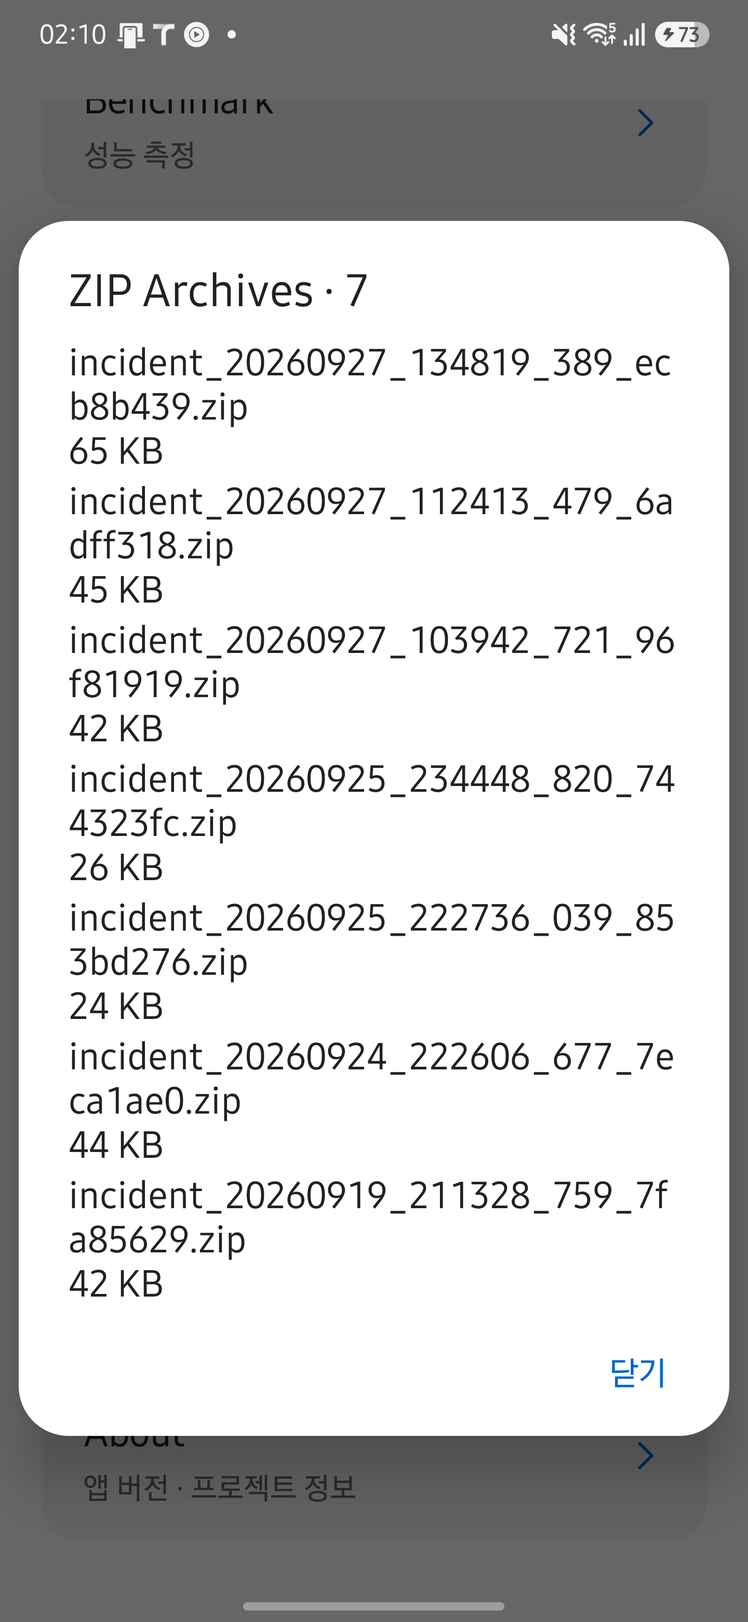
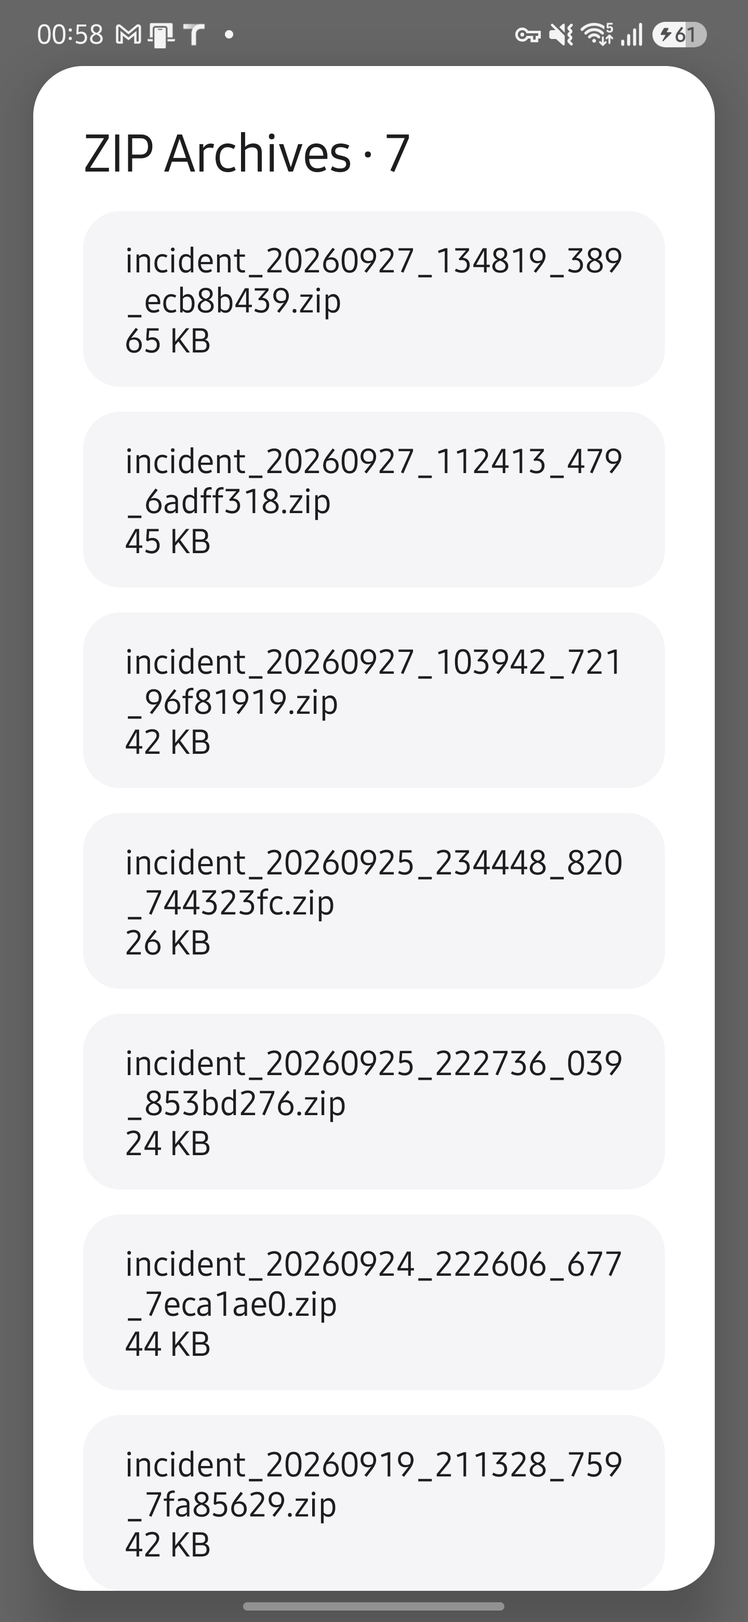
Fix thumbnail clipping and refresh device screenshots

diff --git a/docs/architecture.html b/docs/architecture.html
@@ -113,7 +113,7 @@
 <summary>근거와 검토 정보</summary><ul>
 <li>근거 파일: <code>app/src/main/java/dev/halcamera/cli/CommandCoordinator.kt</code>, <code>tools/halcam/halcam/cli.py</code>, <code>app/src/main/java/dev/halcamera/MainActivity.kt</code>, <code>app/src/main/java/dev/halcamera/WorkbenchActivity.kt</code>, <code>app/src/main/java/dev/halcamera/camera/CameraEngine.kt</code>, <code>app/src/main/java/dev/halcamera/telemetry/Telemetry.kt</code>, <code>app/src/main/java/dev/halcamera/telemetry/FlightRecorder.kt</code>, <code>app/src/main/java/dev/halcamera/benchmark/domain/BenchmarkRunner.kt</code>, <code>app/src/main/java/dev/halcamera/benchmark/domain/RunAssembler.kt</code>, <code>app/src/main/java/dev/halcamera/benchmark/domain/ScoreComposer.kt</code>, <code>app/src/main/java/dev/halcamera/benchmark/BenchmarkActivity.kt</code>, <code>app/src/main/java/dev/halcamera/benchmark/HistoryActivity.kt</code>, <code>app/src/main/java/dev/halcamera/benchmark/domain/RegressionDetector.kt</code></li>
 <li>근거 수준: 코드 확인</li>
-<li>검토 2026-09-29 @ <code>2347e04</code> · Codex-code-review</li>
+<li>검토 2026-09-29 @ <code>0bb92aa</code> · Codex-code-review</li>
 </ul>
 </details><!-- omm:end id=overview --><h2 id="전체-구조도">전체 구조도</h2>
 <p>그림을 클릭하면 확대 화면이 열립니다. 키보드에서는 Tab으로 그림을 선택한 뒤 Enter 또는 Space를 누르세요.</p>
@@ -184,7 +184,7 @@
 <summary>근거와 검토 정보</summary><ul>
 <li>근거 파일: <code>app/src/main/java/dev/halcamera/cli/CommandCoordinator.kt</code>, <code>app/src/main/java/dev/halcamera/cli/LiveController.kt</code>, <code>app/src/main/java/dev/halcamera/cli/BenchmarkController.kt</code>, <code>app/src/main/java/dev/halcamera/camera/CameraEngine.kt</code>, <code>app/src/main/java/dev/halcamera/camera/BenchmarkRecorder.kt</code>, <code>app/src/main/java/dev/halcamera/benchmark/platform/EnvironmentProbe.kt</code>, <code>app/src/main/java/dev/halcamera/benchmark/BenchmarkActivity.kt</code>, <code>app/src/main/java/dev/halcamera/benchmark/HistoryActivity.kt</code>, <code>app/src/main/java/dev/halcamera/benchmark/domain/RunIndex.kt</code>, <code>app/src/main/java/dev/halcamera/benchmark/domain/BenchmarkCsv.kt</code>, <code>app/src/main/java/dev/halcamera/benchmark/domain/ScoreComposer.kt</code>, <code>app/src/main/java/dev/halcamera/benchmark/platform/BenchmarkReport.kt</code>, <code>app/src/main/java/dev/halcamera/benchmark/domain/BenchmarkReportCodec.kt</code>, <code>app/src/main/java/dev/halcamera/telemetry/FlightRecorder.kt</code>, <code>app/src/main/java/dev/halcamera/MainActivity.kt</code>, <code>app/src/main/java/dev/halcamera/camera/RecentMediaThumbnail.kt</code>, <code>app/src/main/java/dev/halcamera/ui/RecentMediaButton.kt</code>, <code>app/src/main/java/dev/halcamera/ui/Look.kt</code>, <code>app/src/main/java/dev/halcamera/cts/recording/BasicRecordingRules.kt</code>, <code>app/src/main/java/dev/halcamera/cts/CtsEntryActivity.kt</code>, <code>app/src/main/java/dev/halcamera/cts/vendored/VendoredCaseActivity.kt</code>, <code>app/src/main/java/dev/halcamera/cts/vendored/VendoredCtsListActivity.kt</code>, <code>app/src/main/java/dev/halcamera/cts/CtsCaseActivity.kt</code>, <code>app/src/main/java/dev/halcamera/cts/CtsCaseListActivity.kt</code>, <code>app/src/main/java/dev/halcamera/cts/suite/CtsChecklistActivity.kt</code>, <code>app/src/main/java/dev/halcamera/cts/suite/CtsSuiteRunActivity.kt</code>, <code>app/src/main/java/dev/halcamera/cts/suite/SuitePlan.kt</code>, <code>app/src/main/java/dev/halcamera/cts/suite/SuiteReport.kt</code>, <code>app/src/main/java/dev/halcamera/cts/CtsCatalog.kt</code>, <code>app/src/main/java/dev/halcamera/cts/CtsRunner.kt</code>, <code>app/src/main/java/dev/halcamera/cts/CameraCaseRunner.kt</code>, <code>app/src/main/java/dev/halcamera/cts/Camera2Ops.kt</code>, <code>app/src/main/java/dev/halcamera/cts/onoff/FastOnOffRules.kt</code>, <code>app/src/main/java/dev/halcamera/cts/switching/SwitchingRules.kt</code>, <code>app/src/main/java/dev/halcamera/cts/sizes/AllSizeOnOffRules.kt</code>, <code>app/src/main/java/dev/halcamera/cts/combination/StillPreviewCombinationRules.kt</code>, <code>app/src/main/java/dev/halcamera/cts/snapshot/VideoSnapshotRules.kt</code>, <code>app/src/main/java/dev/halcamera/CameraProbeActivity.kt</code>, <code>app/src/main/java/dev/halcamera/camera/CameraProbe.kt</code>, <code>app/src/main/java/dev/halcamera/camera/CameraProbeReader.kt</code></li>
 <li>근거 수준: 코드 확인</li>
-<li>검토 2026-09-29 @ <code>2347e04</code> · Codex-code-review</li>
+<li>검토 2026-09-29 @ <code>0bb92aa</code> · Codex-code-review</li>
 </ul>
 </details><!-- omm:end id=module-roles --><h2 id="주요-실행-흐름">주요 실행 흐름</h2>
 <!-- omm:begin id=runtime-flow --><p><strong>실행 실패는 러너 결과에서, 측정값의 차이는 이벤트와 계산 규칙에서 확인하세요.</strong> 벤치마크의 입력은 카메라 콜백 이벤트와 러너가 기록한 실행 시각입니다.</p>
@@ -221,7 +221,7 @@
 <summary>근거와 검토 정보</summary><ul>
 <li>근거 파일: <code>app/src/main/java/dev/halcamera/cli/CliProvider.kt</code>, <code>app/src/main/java/dev/halcamera/cli/CommandCoordinator.kt</code>, <code>tools/halcam/halcam/cli.py</code>, <code>tools/halcam/halcam/download.py</code>, <code>app/src/main/java/dev/halcamera/MainActivity.kt</code>, <code>app/src/main/java/dev/halcamera/GalleryActivity.kt</code>, <code>app/src/main/java/dev/halcamera/camera/MediaLibrary.kt</code>, <code>app/src/main/java/dev/halcamera/camera/RecentMediaThumbnail.kt</code>, <code>app/src/main/java/dev/halcamera/telemetry/Telemetry.kt</code>, <code>app/src/main/java/dev/halcamera/telemetry/FlightRecorder.kt</code>, <code>app/src/main/java/dev/halcamera/metrics/MetricExtractor.kt</code>, <code>app/src/main/java/dev/halcamera/benchmark/domain/BenchmarkRunner.kt</code>, <code>app/src/main/java/dev/halcamera/benchmark/domain/RunAssembler.kt</code>, <code>app/src/main/java/dev/halcamera/benchmark/domain/RunValidity.kt</code>, <code>app/src/main/java/dev/halcamera/benchmark/domain/RunRetention.kt</code>, <code>app/src/main/java/dev/halcamera/benchmark/platform/BenchmarkReport.kt</code>, <code>app/src/main/java/dev/halcamera/benchmark/domain/BenchmarkReportCodec.kt</code>, <code>app/src/main/java/dev/halcamera/benchmark/domain/ScoreComposer.kt</code>, <code>app/src/main/java/dev/halcamera/benchmark/domain/BenchmarkEvaluator.kt</code>, <code>app/src/main/java/dev/halcamera/benchmark/BenchmarkActivity.kt</code>, <code>app/src/main/java/dev/halcamera/benchmark/platform/LaunchDiagnostics.kt</code>, <code>app/src/main/java/dev/halcamera/benchmark/domain/RegressionDetector.kt</code></li>
 <li>근거 수준: 코드 확인</li>
-<li>검토 2026-09-29 @ <code>2347e04</code> · Codex-code-review</li>
+<li>검토 2026-09-29 @ <code>0bb92aa</code> · Codex-code-review</li>
 </ul>
 </details><!-- omm:end id=runtime-flow --><h3 id="이벤트와-결과가-전달되는-경로">이벤트와 결과가 전달되는 경로</h3>
 <!-- omm:begin id=runtime-diagram --><pre><code class="language-mermaid">graph TB
@@ -367,7 +367,7 @@
 <summary>근거와 검토 정보</summary><ul>
 <li>근거 파일: <code>app/src/main/java/dev/halcamera/cli/CliProvider.kt</code>, <code>app/src/main/java/dev/halcamera/cli/CommandCoordinator.kt</code>, <code>app/src/main/java/dev/halcamera/cli/CommandStore.kt</code>, <code>app/src/main/java/dev/halcamera/camera/CameraEngine.kt</code>, <code>app/src/main/java/dev/halcamera/camera/CameraEndpointResolver.kt</code>, <code>app/src/main/java/dev/halcamera/telemetry/IncidentExporter.kt</code>, <code>app/src/main/java/dev/halcamera/benchmark/domain/BenchmarkRunner.kt</code>, <code>app/src/main/java/dev/halcamera/benchmark/domain/RunValidity.kt</code>, <code>app/src/main/java/dev/halcamera/benchmark/domain/ScoreComposer.kt</code>, <code>app/src/main/java/dev/halcamera/benchmark/domain/RegressionRules.kt</code>, <code>app/src/main/java/dev/halcamera/benchmark/platform/BenchmarkReport.kt</code>, <code>app/src/main/java/dev/halcamera/benchmark/domain/BenchmarkReportCodec.kt</code>, <code>app/src/main/java/dev/halcamera/benchmark/platform/BenchmarkStore.kt</code>, <code>app/src/main/java/dev/halcamera/benchmark/domain/BenchmarkIndex.kt</code>, <code>app/src/main/java/dev/halcamera/benchmark/domain/AtomicFiles.kt</code></li>
 <li>근거 수준: 코드 확인</li>
-<li>검토 2026-09-29 @ <code>2347e04</code> · Codex-code-review</li>
+<li>검토 2026-09-29 @ <code>0bb92aa</code> · Codex-code-review</li>
 </ul>
 </details><!-- omm:end id=constraints --><h2 id="변경-후-검증">변경 후 검증</h2>
 <p>Android 의존성이 없는 러너와 평가 로직은 JVM 단위 테스트로 확인할 수 있습니다. 저장소 루트에서 실행하세요.</p>
@@ -406,17 +406,17 @@
 <tbody><tr>
 <td>구조 원본 <code>data-flow</code></td>
 <td>최신</td>
-<td>검토 2026-09-29 @ <code>2347e04</code> · Codex-code-review</td>
+<td>검토 2026-09-29 @ <code>0bb92aa</code> · Codex-code-review</td>
 </tr>
 <tr>
 <td>구조 원본 <code>overall-architecture</code></td>
 <td>최신</td>
-<td>검토 2026-09-29 @ <code>2347e04</code> · Codex-code-review</td>
+<td>검토 2026-09-29 @ <code>0bb92aa</code> · Codex-code-review</td>
 </tr>
 <tr>
 <td>구조 원본 <code>state-transitions</code></td>
 <td>최신</td>
-<td>검토 2026-09-29 @ <code>2347e04</code> · Codex-code-review</td>
+<td>검토 2026-09-29 @ <code>0bb92aa</code> · Codex-code-review</td>
 </tr>
 <tr>
 <td>구조 원본 <code>ui-camera-label</code></td>
@@ -426,7 +426,7 @@
 <tr>
 <td>구조 원본 <code>ui-tool-handoff</code></td>
 <td>최신</td>
-<td>검토 2026-09-29 @ <code>2347e04</code> · Codex-code-review</td>
+<td>검토 2026-09-29 @ <code>0bb92aa</code> · Codex-code-review</td>
 </tr>
 <tr>
 <td>구조 원본 <code>ui-zoom</code></td>
@@ -436,22 +436,22 @@
 <tr>
 <td>원고 <code>overview</code></td>
 <td>최신</td>
-<td>검토 2026-09-29 @ <code>2347e04</code> · Codex-code-review</td>
+<td>검토 2026-09-29 @ <code>0bb92aa</code> · Codex-code-review</td>
 </tr>
 <tr>
 <td>원고 <code>module-roles</code></td>
 <td>최신</td>
-<td>검토 2026-09-29 @ <code>2347e04</code> · Codex-code-review</td>
+<td>검토 2026-09-29 @ <code>0bb92aa</code> · Codex-code-review</td>
 </tr>
 <tr>
 <td>원고 <code>runtime-flow</code></td>
 <td>최신</td>
-<td>검토 2026-09-29 @ <code>2347e04</code> · Codex-code-review</td>
+<td>검토 2026-09-29 @ <code>0bb92aa</code> · Codex-code-review</td>
 </tr>
 <tr>
 <td>원고 <code>constraints</code></td>
 <td>최신</td>
-<td>검토 2026-09-29 @ <code>2347e04</code> · Codex-code-review</td>
+<td>검토 2026-09-29 @ <code>0bb92aa</code> · Codex-code-review</td>
 </tr>
 </tbody></table>
 <!-- omm:end id=status --><p>표의 <code>최신</code>은 기록된 근거와 원고가 검토 이후 바뀌지 않았다는 뜻입니다. 모든 기기에서 동작을 검증했다는 뜻은 아닙니다.</p>

diff --git a/docs/engine.html b/docs/engine.html
@@ -140,7 +140,7 @@
 <summary>근거와 검토 정보</summary><ul>
 <li>근거 파일: <code>app/src/main/java/dev/halcamera/camera/CameraEngine.kt</code>, <code>app/src/main/java/dev/halcamera/camera/Camera2Engine.kt</code>, <code>app/src/main/java/dev/halcamera/camera/CameraXEngine.kt</code>, <code>app/src/main/java/dev/halcamera/MainActivity.kt</code>, <code>app/src/main/java/dev/halcamera/ui/LiveControlBar.kt</code>, <code>app/src/main/java/dev/halcamera/ui/FocusRing.kt</code>, <code>app/src/main/java/dev/halcamera/camera/LiveControls.kt</code>, <code>app/src/main/java/dev/halcamera/benchmark/BenchmarkActivity.kt</code>, <code>app/src/main/java/dev/halcamera/benchmark/domain/StartCardPresenter.kt</code>, <code>app/src/main/java/dev/halcamera/cli/LiveController.kt</code>, <code>app/src/main/java/dev/halcamera/telemetry/Telemetry.kt</code></li>
 <li>근거 수준: 코드 확인</li>
-<li>검토 2026-09-29 @ <code>2347e04</code> · Codex-code-review</li>
+<li>검토 2026-09-29 @ <code>0bb92aa</code> · Codex-code-review</li>
 </ul>
 </details><!-- omm:end id=contract --><h2 id="camera2-엔진">Camera2 엔진</h2>
 <!-- omm:begin id=camera2 --><p><strong>Camera2Engine은 앱에서 CaptureRequest를 직접 구성합니다.</strong> <code>request_observed</code>에 기록한 키를 HAL 로그와 대조할 수 있습니다. 엔진 자체는 세션, 요청 구성, 줌, Live 제어를 담당하고, 사진은 <code>Camera2StillCapture</code>, Live 녹화는 <code>Camera2LiveRecorder</code>, 터치 측광은 <code>Camera2TouchFocus</code>, 벤치마크 녹화는 <code>BenchmarkRecorder</code>가 맡습니다. 카메라 요청과 capture 콜백은 엔진이 만든 카메라 스레드 하나에서 처리하고, 버퍼 relay와 파일 저장은 각자의 스레드에서 처리합니다.</p>
@@ -238,7 +238,7 @@
 <summary>근거와 검토 정보</summary><ul>
 <li>근거 파일: <code>app/src/main/java/dev/halcamera/camera/Camera2Engine.kt</code>, <code>app/src/main/java/dev/halcamera/camera/LiveStreamSettings.kt</code>, <code>app/src/main/java/dev/halcamera/camera/LiveStreamCapabilities.kt</code>, <code>app/src/main/java/dev/halcamera/camera/LiveSessionCheck.kt</code>, <code>app/src/main/java/dev/halcamera/camera/Camera2StillCapture.kt</code>, <code>app/src/main/java/dev/halcamera/camera/Camera2LiveRecorder.kt</code>, <code>app/src/main/java/dev/halcamera/camera/BenchmarkRecorder.kt</code>, <code>app/src/main/java/dev/halcamera/camera/PreviewBufferRelay.kt</code>, <code>app/src/main/java/dev/halcamera/camera/RecordingBufferRelay.kt</code>, <code>app/src/main/java/dev/halcamera/camera/StreamConfiguration.kt</code>, <code>app/src/main/java/dev/halcamera/camera/StillPair.kt</code>, <code>app/src/main/java/dev/halcamera/camera/YuvPacking.kt</code>, <code>app/src/main/java/dev/halcamera/camera/StillEncoding.kt</code>, <code>app/src/main/java/dev/halcamera/camera/MediaLibrary.kt</code>, <code>app/src/main/java/dev/halcamera/camera/LiveControls.kt</code>, <code>app/src/main/java/dev/halcamera/camera/LiveControlRequests.kt</code>, <code>app/src/main/java/dev/halcamera/camera/TouchMeter.kt</code>, <code>app/src/main/java/dev/halcamera/camera/TouchMeterRequests.kt</code></li>
 <li>근거 수준: 코드 확인</li>
-<li>검토 2026-09-29 @ <code>2347e04</code> · Codex-code-review</li>
+<li>검토 2026-09-29 @ <code>0bb92aa</code> · Codex-code-review</li>
 </ul>
 </details><!-- omm:end id=camera2 --><h2 id="camerax-엔진">CameraX 엔진</h2>
 <!-- omm:begin id=camerax --><p><strong>CameraXEngine은 CameraX use case로 Live 촬영과 제어를 제공하지만, 요청 키 일부는 CameraX가 정합니다.</strong> Live 스트림 설정에서 Preview·YUV·JPEG 크기와 출력 활성화를 선택할 수 있습니다. 앱이 CameraX 1.6.2에 직접 넣는 Camera2 키는 AE 잠금(<code>CONTROL_AE_LOCK</code>)과 AF 잠금 해제용 cancel trigger뿐입니다. 엔진 자체는 use case bind, 줌, 수명 주기를 담당하고, 사진은 <code>CameraXStillCapture</code>, 녹화는 <code>CameraXLiveRecorder</code>, Live 제어와 터치 측광은 <code>CameraXControls</code>가 맡습니다.</p>
@@ -308,7 +308,7 @@
 <summary>근거와 검토 정보</summary><ul>
 <li>근거 파일: <code>app/src/main/java/dev/halcamera/camera/CameraXEngine.kt</code>, <code>app/src/main/java/dev/halcamera/camera/CameraXStillCapture.kt</code>, <code>app/src/main/java/dev/halcamera/camera/CameraXLiveRecorder.kt</code>, <code>app/src/main/java/dev/halcamera/camera/CameraXControls.kt</code>, <code>app/src/main/java/dev/halcamera/camera/StillEncoding.kt</code>, <code>app/src/main/java/dev/halcamera/camera/YuvPacking.kt</code>, <code>app/src/main/java/dev/halcamera/camera/MediaLibrary.kt</code>, <code>app/src/main/java/dev/halcamera/camera/StreamConfiguration.kt</code>, <code>app/src/main/java/dev/halcamera/camera/LiveControls.kt</code>, <code>app/src/main/java/dev/halcamera/camera/TouchMeter.kt</code>, <code>app/build.gradle.kts</code></li>
 <li>근거 수준: 코드 확인</li>
-<li>검토 2026-09-29 @ <code>2347e04</code> · Codex-code-review</li>
+<li>검토 2026-09-29 @ <code>0bb92aa</code> · Codex-code-review</li>
 </ul>
 </details><!-- omm:end id=camerax --><h2 id="두-엔진의-차이">두 엔진의 차이</h2>
 <!-- omm:begin id=comparison --><p><strong>두 엔진의 측정값을 비교하기 전에 아래 차이가 결과에 영향을 주는지 확인하세요.</strong> 같은 조작이라도 엔진이 카메라에 보내는 요청과 앱이 기록하는 시각이 다를 수 있습니다.</p>
@@ -375,7 +375,7 @@
 <summary>근거와 검토 정보</summary><ul>
 <li>근거 파일: <code>app/src/main/java/dev/halcamera/camera/Camera2Engine.kt</code>, <code>app/src/main/java/dev/halcamera/camera/Camera2StillCapture.kt</code>, <code>app/src/main/java/dev/halcamera/camera/Camera2LiveRecorder.kt</code>, <code>app/src/main/java/dev/halcamera/camera/TouchMeterRequests.kt</code>, <code>app/src/main/java/dev/halcamera/camera/CameraXEngine.kt</code>, <code>app/src/main/java/dev/halcamera/camera/CameraXStillCapture.kt</code>, <code>app/src/main/java/dev/halcamera/camera/CameraXLiveRecorder.kt</code>, <code>app/src/main/java/dev/halcamera/camera/CameraXControls.kt</code>, <code>app/src/main/java/dev/halcamera/MainActivity.kt</code></li>
 <li>근거 수준: 코드 확인</li>
-<li>검토 2026-09-29 @ <code>2347e04</code> · Codex-code-review</li>
+<li>검토 2026-09-29 @ <code>0bb92aa</code> · Codex-code-review</li>
 </ul>
 </details><!-- omm:end id=comparison --><h3 id="기기에서-관찰한-차이">기기에서 관찰한 차이</h3>
 <p>Galaxy S25+에서 확인한 CameraX 관찰 결과와 검증 조건은 <a href="evidence.html#camerax-기기-관찰">Evidence</a>에 있습니다.</p>
@@ -395,27 +395,27 @@
 <tbody><tr>
 <td>구조 원본 <code>overall-architecture</code></td>
 <td>최신</td>
-<td>검토 2026-09-29 @ <code>2347e04</code> · Codex-code-review</td>
+<td>검토 2026-09-29 @ <code>0bb92aa</code> · Codex-code-review</td>
 </tr>
 <tr>
 <td>원고 <code>contract</code></td>
 <td>최신</td>
-<td>검토 2026-09-29 @ <code>2347e04</code> · Codex-code-review</td>
+<td>검토 2026-09-29 @ <code>0bb92aa</code> · Codex-code-review</td>
 </tr>
 <tr>
 <td>원고 <code>camera2</code></td>
 <td>최신</td>
-<td>검토 2026-09-29 @ <code>2347e04</code> · Codex-code-review</td>
+<td>검토 2026-09-29 @ <code>0bb92aa</code> · Codex-code-review</td>
 </tr>
 <tr>
 <td>원고 <code>camerax</code></td>
 <td>최신</td>
-<td>검토 2026-09-29 @ <code>2347e04</code> · Codex-code-review</td>
+<td>검토 2026-09-29 @ <code>0bb92aa</code> · Codex-code-review</td>
 </tr>
 <tr>
 <td>원고 <code>comparison</code></td>
 <td>최신</td>
-<td>검토 2026-09-29 @ <code>2347e04</code> · Codex-code-review</td>
+<td>검토 2026-09-29 @ <code>0bb92aa</code> · Codex-code-review</td>
 </tr>
 </tbody></table>
 <!-- omm:end id=status --><p>표의 <code>최신</code>은 기록된 근거와 원고가 검토 이후 바뀌지 않았다는 뜻입니다. 모든 기기에서 동작을 검증했다는 뜻은 아닙니다.</p>

diff --git a/docs/evidence.html b/docs/evidence.html
@@ -60,6 +60,7 @@
 <p>2026년 9월 27일 Galaxy S25+(SM-S936N)·Android 16(API 36)에서 배포된 0.15.0(versionCode 543)을 실행해 16개 화면을 촬영했습니다. 원본은 1440×3120 PNG이며, 각 기능의 담당 문서에 한 번씩 배치했습니다.</p>
 <p>Live·CameraX 전환·사진 자동 고정·Recording 콜백·Probe 조회·CTS 실행·Benchmark 완료와 기록 저장을 확인했습니다. CTS 원문 목록, CLI 허용 설정, ZIP 기록은 화면 조회만 확인했습니다. 자세한 절차와 한계는 <a href="https://github.com/TTolsun/hal-camera/blob/main/docs/validation/2026-09-27-app-screenshots.md">촬영 기록</a>에 있습니다. 화면에 보이는 수치는 해당 순간의 관찰이며 기기의 대표 성능값이 아닙니다.</p>
 <p>2026년 9월 29일 같은 기기의 Lab 디자인 적용 빌드로 Probe, CTS 4개, Benchmark 4개, CLI 설정, ZIP 목록의 기존 이미지 11개를 교체했습니다. 설치 빌드는 기존 데이터 보존을 위해 versionCode 590을 유지했습니다. Rapid Open / Close는 35초 PASS로 완료했고, Benchmark 완료·결과·기록을 확인했습니다. Live 관련 이미지는 이전 촬영본입니다. <a href="https://github.com/TTolsun/hal-camera/blob/main/docs/validation/lab-ui-20260929.md">Lab 검증 기록</a>에서 확인 범위를 구분합니다.</p>
+<p>2026년 9월 30일 같은 기기의 0.16.0(versionCode 593) 디자인 변경 빌드로 Live·Live 제어·CameraX·CLI 설정·ZIP 목록의 이미지 5개를 교체하고 Gallery·About·기기 정보·ZIP 작업 화면 7개를 추가했습니다. Gallery 첫 타일의 모서리를 실기기 리뷰에서 수정했습니다. Callback의 촬영·녹화 화면은 9월 27일 당시 검증 기록이며 이번 UI 변경의 검증 자료가 아닙니다. <a href="https://github.com/TTolsun/hal-camera/blob/main/docs/validation/gallery-lab-ui-20260930.md">Gallery·Lab UI 리뷰와 촬영 기록</a>에서 코드 리뷰와 기기 관찰을 확인하세요.</p>
 <h3 id="cts-원문-케이스">CTS 원문 케이스</h3>
 <p>Galaxy S25+·Android 16에서 2026년 9월 17<del>19일, versionCode 106</del>108로 수행한 기록입니다. versionCode 108의 SKIP 판정을 적용한 결과는 40개 메서드 중 <strong>PASS 33 · FAIL 1 · SKIP 6</strong>입니다. 여러 실행과 재실행을 합친 기록입니다. 원본 요청 ID와 로그 해석은 <a href="https://github.com/TTolsun/hal-camera/blob/main/docs/STATUS.md">STATUS.md</a>에 있습니다.</p>
 <table>
@@ -129,7 +130,7 @@
 <li>근거 파일: <code>app/src/main/java/dev/halcamera/camera/CameraXControls.kt</code>, <code>app/src/main/java/dev/halcamera/camera/CameraXStillCapture.kt</code>, <code>app/src/main/java/dev/halcamera/camera/CameraXLiveRecorder.kt</code></li>
 <li>기기 검증: <code>V-002</code></li>
 <li>근거 수준: 기기 검증</li>
-<li>검토 2026-09-29 @ <code>2347e04</code> · Codex-code-review</li>
+<li>검토 2026-09-29 @ <code>0bb92aa</code> · Codex-code-review</li>
 </ul>
 </details><!-- omm:end id=device-notes --><h2 id="문서를-수정하고-검증하세요">문서를 수정하고 검증하세요</h2>
 <pre><code class="language-mermaid">flowchart LR
@@ -204,12 +205,12 @@ node tools/docgen/docflow.mjs check --ci
 <tbody><tr>
 <td>구조 원본 <code>overall-architecture</code></td>
 <td>최신</td>
-<td>검토 2026-09-29 @ <code>2347e04</code> · Codex-code-review</td>
+<td>검토 2026-09-29 @ <code>0bb92aa</code> · Codex-code-review</td>
 </tr>
 <tr>
 <td>원고 <code>device-notes</code></td>
 <td>최신</td>
-<td>검토 2026-09-29 @ <code>2347e04</code> · Codex-code-review</td>
+<td>검토 2026-09-29 @ <code>0bb92aa</code> · Codex-code-review</td>
 </tr>
 </tbody></table>
 <!-- omm:end id=status --><p><strong>다음 단계:</strong> 구현 구조는 <a href="architecture.html">Architecture</a>, 과거의 선택은 <a href="_inputs/decisions.html">설계 결정 원문</a>에서 확인하세요.</p>

diff --git a/docs/callback.html b/docs/callback.html
@@ -93,7 +93,7 @@
 </tbody></table>
 <figure class="app-screenshot" id="screen-callback-recording">
 <a href="assets/screenshots/callback-recording.png" aria-label="녹화 중 Shutter Metadata Preview Recording 콜백 그래프 원본 보기"><img src="assets/screenshots/callback-recording.png" alt="녹화 중 Shutter Metadata Preview Recording 콜백 그래프" width="1440" height="3120" loading="lazy" decoding="async"></a>
-<figcaption>Camera2로 녹화하면서 Preview·Recording 값을 확인한 장면입니다. Real-time Frame에서는 시간 버튼이 숨겨지고 프레임이 계속 갱신됩니다. <a href="assets/screenshots/callback-recording.png">원본 보기</a></figcaption>
+<figcaption>2026-09-27의 0.15.0 촬영본입니다. 현재 ZIP 버튼 문구는 Save Events · ZIP입니다. Camera2로 녹화하면서 Preview·Recording 값을 확인한 장면입니다. Real-time Frame에서는 시간 버튼이 숨겨지고 프레임이 계속 갱신됩니다. <a href="assets/screenshots/callback-recording.png">원본 보기</a></figcaption>
 </figure><p>Camera2의 Android 12 이하와 CameraX에서는 Preview·Recording 버퍼 도착을 직접 관측하지 못하므로 <code>콜백 없음</code>을 표시합니다. CameraX도 선택한 엔진에서 녹화하며, 녹화 세션에는 Preview·Recording 행이 표시됩니다.</p>
 <p>CameraX의 YUV 행은 ImageAnalysis 수신 시점, JPEG 행은 ImageCapture 수신 시점입니다. 사진으로 저장하는 YUV는 JPEG와 시각이 가장 가까운 analysis 프레임이므로 두 행을 같은 촬영 요청의 결과로 해석하지 않습니다. 저장한 두 이미지의 시각 차이는 <code>media_saved</code>의 <code>yuvOffsetNs</code>에서 확인합니다.</p>
 <p>버퍼와 프레임은 센서 타임스탬프가 같은지 확인하여 연결하고, 표시 시간은 앱의 단조 시계로 계산합니다. 이 값은 앱 수신 시각이며 HAL 내부 처리 완료 시각을 직접 측정한 값은 아닙니다.</p>
@@ -146,7 +146,7 @@
 </ol>
 <figure class="app-screenshot" id="screen-callback-event">
 <a href="assets/screenshots/callback-event.png" aria-label="사진 촬영 후 YUV와 JPEG 도착 시각을 자동 고정한 Callback 원본 보기"><img src="assets/screenshots/callback-event.png" alt="사진 촬영 후 YUV와 JPEG 도착 시각을 자동 고정한 Callback" width="1440" height="3120" loading="lazy" decoding="async"></a>
-<figcaption>고정 시간이 10초인 상태에서 사진을 촬영했습니다. 일시정지 표시와 같은 프레임의 YUV 1·JPEG 값을 확인할 수 있습니다. <a href="assets/screenshots/callback-event.png">원본 보기</a></figcaption>
+<figcaption>2026-09-27의 0.15.0 촬영본입니다. 현재 ZIP 버튼 문구는 Save Events · ZIP입니다. 고정 시간이 10초인 상태에서 사진을 촬영했습니다. 일시정지 표시와 같은 프레임의 YUV 1·JPEG 값을 확인할 수 있습니다. <a href="assets/screenshots/callback-event.png">원본 보기</a></figcaption>
 </figure><h2 id="값이-없는-이유를-확인하세요">값이 없는 이유를 확인하세요</h2>
 <table>
 <thead>

diff --git a/docs/troubleshooting.html b/docs/troubleshooting.html
@@ -169,7 +169,7 @@
 <summary>근거와 검토 정보</summary><ul>
 <li>근거 파일: <code>app/src/main/java/dev/halcamera/cli/CommandStore.kt</code>, <code>tools/halcam/halcam/cli.py</code>, <code>app/src/main/java/dev/halcamera/MainActivity.kt</code>, <code>app/src/main/java/dev/halcamera/camera/CameraXStillCapture.kt</code>, <code>app/src/main/java/dev/halcamera/telemetry/Telemetry.kt</code>, <code>app/src/main/java/dev/halcamera/telemetry/FlightRecorder.kt</code>, <code>app/src/main/java/dev/halcamera/metrics/MetricExtractor.kt</code>, <code>app/src/main/java/dev/halcamera/benchmark/domain/RunAssembler.kt</code>, <code>app/src/main/java/dev/halcamera/benchmark/domain/RunValidity.kt</code>, <code>app/src/main/java/dev/halcamera/benchmark/domain/BenchmarkEvaluator.kt</code>, <code>app/src/main/java/dev/halcamera/benchmark/BenchmarkActivity.kt</code>, <code>app/src/main/java/dev/halcamera/benchmark/HistoryActivity.kt</code></li>
 <li>근거 수준: 코드 확인</li>
-<li>검토 2026-09-29 @ <code>2347e04</code> · Codex-code-review</li>
+<li>검토 2026-09-29 @ <code>0bb92aa</code> · Codex-code-review</li>
 </ul>
 </details><!-- omm:end id=layer-isolation --><h2 id="알려진-제약">알려진 제약</h2>
 <p>미구현 지표와 추가 검증 사항은 <a href="architecture.html#미완성-기능과-추가-검증">Architecture</a>에서 관리합니다. 기기에서 확인한 결과는 <a href="evidence.html">Evidence</a>에 있습니다.</p>
@@ -192,17 +192,17 @@
 <tbody><tr>
 <td>구조 원본 <code>data-flow</code></td>
 <td>최신</td>
-<td>검토 2026-09-29 @ <code>2347e04</code> · Codex-code-review</td>
+<td>검토 2026-09-29 @ <code>0bb92aa</code> · Codex-code-review</td>
 </tr>
 <tr>
 <td>구조 원본 <code>state-transitions</code></td>
 <td>최신</td>
-<td>검토 2026-09-29 @ <code>2347e04</code> · Codex-code-review</td>
+<td>검토 2026-09-29 @ <code>0bb92aa</code> · Codex-code-review</td>
 </tr>
 <tr>
 <td>원고 <code>layer-isolation</code></td>
 <td>최신</td>
-<td>검토 2026-09-29 @ <code>2347e04</code> · Codex-code-review</td>
+<td>검토 2026-09-29 @ <code>0bb92aa</code> · Codex-code-review</td>
 </tr>
 </tbody></table>
 <!-- omm:end id=status --><p><code>코드 확인</code>과 실제 기기 검증은 서로 다른 근거입니다. 표의 검토 기록만으로 특정 기기에서 재현됐다고 판단하지 않습니다.</p>

diff --git a/app/src/main/java/dev/halcamera/GalleryActivity.kt b/app/src/main/java/dev/halcamera/GalleryActivity.kt
@@ -307,6 +307,7 @@ class GalleryActivity : ComponentActivity() {
     }
 
     private inner class Tile : FrameLayout(this@GalleryActivity) {
+        private val thumbnailClip = android.graphics.Path()
         val image = ImageView(context).apply { scaleType = ImageView.ScaleType.CENTER_CROP; setBackgroundColor(Look.gallerySurface) }
         val badge = Look.text(context, "", 11, Look.onDark, bold = true).apply {
             setBackgroundColor(Color.argb(180, 0, 0, 0)); setPadding(4.dp, 2.dp, 4.dp, 2.dp)
@@ -316,12 +317,25 @@ class GalleryActivity : ComponentActivity() {
             background = android.graphics.drawable.GradientDrawable().apply {
                 setColor(Look.galleryControl); cornerRadius = 8.dp.toFloat()
             }
-            clipToOutline = true
             addView(image, LayoutParams(-1, -1))
             addView(badge, LayoutParams(-2, -2, Gravity.BOTTOM or Gravity.END).apply { setMargins(4.dp, 4.dp, 4.dp, 4.dp) })
             addView(check, LayoutParams(24.dp, 24.dp, Gravity.TOP or Gravity.END).apply { setMargins(8.dp, 8.dp, 8.dp, 8.dp) })
             importantForAccessibility = View.IMPORTANT_FOR_ACCESSIBILITY_YES
             listOf(image, badge, check).forEach { it.importantForAccessibility = View.IMPORTANT_FOR_ACCESSIBILITY_NO }
+        }
+
+        override fun dispatchDraw(canvas: android.graphics.Canvas) {
+            // GridView measures and recycles its first child before layout; clip at draw time too.
+            val save = canvas.save()
+            canvas.clipPath(thumbnailClip)
+            super.dispatchDraw(canvas)
+            canvas.restoreToCount(save)
+        }
+
+        override fun onSizeChanged(w: Int, h: Int, oldw: Int, oldh: Int) {
+            super.onSizeChanged(w, h, oldw, oldh)
+            thumbnailClip.reset()
+            thumbnailClip.addRoundRect(0f, 0f, w.toFloat(), h.toFloat(), 8.dp.toFloat(), 8.dp.toFloat(), android.graphics.Path.Direction.CW)
         }
     }
 

diff --git a/app/src/main/java/dev/halcamera/MainActivity.kt b/app/src/main/java/dev/halcamera/MainActivity.kt
@@ -123,7 +123,7 @@ class MainActivity : ComponentActivity() {
         })
     }
     companion object {
-        /** 8.1: one word, because the button records a moment and no longer claims anything about it. */
+        /** Shared initial and idle label for the event ZIP action. */
         const val MARK_LABEL = "Save Events · ZIP"
     }
     // Camera UI follows docs/design/APP-UI.md; shared dark surfaces and active states use ui/Look.

diff --git a/docs/validation/gallery-lab-ui-20260930.md b/docs/validation/gallery-lab-ui-20260930.md
@@ -1,0 +1,46 @@
+# Gallery·Lab 디자인 변경 리뷰와 실기기 화면
+
+2026-09-30 Galaxy S25+(SM-S936N), Android 16/API 36, 1440×3120에서 확인했습니다. 앱은 0.16.0(versionCode 593)이며 기존 릴리스 서명으로 업데이트 설치하여 데이터와 설정을 유지했습니다. Gallery·About은 Runway 참고안, Device Info·ADB CLI·ZIP 대화상자는 Apple 공통 구성을 사용합니다.
+
+## 코드 리뷰
+
+세션 변경 커밋 `2347e04`와 최신 main `ef7e066` 통합 후 변경을 리뷰했습니다. 원격 진단 기능은 보존했습니다. Gallery의 MediaStore 조회, 선택 목록, 공유 URI 권한, 시스템 삭제 확인, 확대·재생 로직을 대조했습니다. Lab 설정의 별칭 저장·복사와 CLI 즉시 반영 동작, ZIP 파일 작업의 확인 순서도 검토했습니다.
+
+About은 기존 `R.mipmap.ic_launcher` 캐릭터, 실제 패키지 버전, 이메일과 연속 탭 동작을 유지합니다. Look의 기존 공용 토큰은 변경하지 않았고 새로운 색과 버튼은 Gallery·About에 한정했습니다. Live는 ZIP 버튼의 초기·대기 문구만 영어로 바꿨습니다. 카메라와 측정 로직은 이번 디자인 변경의 대상이 아닙니다.
+
+실기기에서 첫 Gallery 타일에만 둥근 모서리가 적용되지 않는 현상을 발견했습니다. 타일 크기가 바뀔 때 클립 경로를 갱신하고 자식 뷰를 그릴 때 마스크를 적용하여 수정했습니다. 수정 APK 재설치 후 일반·선택 모드의 첫 타일에서도 모서리가 일치함을 확인했습니다. 리뷰 범위에서 남은 머지 차단 사항은 없습니다.
+
+## 기기에서 확인한 범위
+
+- Camera2와 CameraX 프리뷰, Live 제어 펼침, `Save Events · ZIP` 문구를 확인하고 Camera2로 복귀했습니다.
+- Gallery의 실제 사진 9장·동영상 9개 조회, 단일 선택과 취소, 사진 상세 진입·복귀를 확인했습니다.
+- About의 기존 캐릭터와 실제 버전, 연락처의 표시를 확인했습니다. 메일 전송은 실행하지 않았습니다.
+- Device Info의 별칭 입력 영역과 전체 보고서, ADB CLI의 기존 허용 상태를 확인했습니다. 설정값을 바꾸지 않았습니다.
+- ZIP 7개 목록, 긴 파일명 줄바꿈, 파일 작업과 별도 삭제 확인창을 확인했습니다. 삭제 확인은 취소했으며 공유·내보내기·삭제를 실행하지 않았습니다.
+
+UI 표시와 탐색 확인이며 카메라 성능·측정 회귀 검증은 아닙니다. 녹화·사진 촬영·ZIP 생성은 이번 촬영에서 실행하지 않았습니다. UIAutomator는 이 환경에서 덤프를 반환하지 않아 ADB 입력과 원본 스크린샷을 직접 대조했습니다.
+
+## 검증
+
+최신 main 통합 후 release 빌드, 앱 JVM 테스트 599개와 lintDebug가 통과했습니다. 모서리 후속 수정은 release 빌드와 기기 재확인으로 검증했습니다. 문서 6단계 검사와 문서 회귀 테스트 23개가 통과했습니다. CI 결과는 PR의 필수 Ubuntu·Windows 검사를 기준으로 확인합니다.
+
+## 스크린샷
+
+ADB screencap PNG 원본을 수정하거나 합성하지 않고 사용합니다. 대화상자와 Live 사진은 세션 디자인 빌드, Gallery 격자·선택은 main 통합 및 모서리 수정 빌드에서 촬영했습니다. 모두 같은 UI·버전이며 각 이미지의 확인 범위를 위에 구분했습니다. 원본은 `guide/assets/screenshots/`이며 문서 엔진이 `docs/assets/screenshots/`로 복사합니다. 과거 날짜의 검증·리뷰 이미지는 이력으로 보존합니다.
+
+| 파일 | 갱신 내용 |
+| --- | --- |
+| [live.png](../../guide/assets/screenshots/live.png) | 영어 ZIP 버튼과 현재 Live 스트림 표시를 교체했습니다. 디자인 문서의 figures/live-screen.png도 같은 원본입니다. |
+| [live-controls.png](../../guide/assets/screenshots/live-controls.png) | 현재 Live 제어 펼침 화면으로 교체했습니다. |
+| [engine-camerax.png](../../guide/assets/screenshots/engine-camerax.png) | 현재 CameraX 프리뷰로 교체했습니다. |
+| [cli-settings.png](../../guide/assets/screenshots/cli-settings.png) | Apple 스타일 CLI 대화상자로 교체했습니다. |
+| [incident-history.png](../../guide/assets/screenshots/incident-history.png) | Apple 스타일 ZIP 목록으로 교체했습니다. |
+| [gallery.png](../../guide/assets/screenshots/gallery.png) | Runway 앨범 격자를 추가했습니다. |
+| [gallery-selection.png](../../guide/assets/screenshots/gallery-selection.png) | 선택 개수·체크·작업 버튼을 추가했습니다. |
+| [gallery-detail.png](../../guide/assets/screenshots/gallery-detail.png) | 사진 상세를 추가했습니다. |
+| [about.png](../../guide/assets/screenshots/about.png) | 기존 캐릭터를 유지한 Runway About을 추가했습니다. |
+| [device-info.png](../../guide/assets/screenshots/device-info.png) | 기기 정보 대화상자를 추가했습니다. |
+| [incident-actions.png](../../guide/assets/screenshots/incident-actions.png) | ZIP 파일 작업을 추가했습니다. |
+| [incident-delete.png](../../guide/assets/screenshots/incident-delete.png) | ZIP 삭제 확인을 추가했습니다. |
+
+레이아웃과 조작 규칙은 [APP-UI.md](../design/APP-UI.md)를 확인하세요.

diff --git a/guide/engine.md b/guide/engine.md
@@ -83,7 +83,7 @@ Live 제어와 터치 측광은 다음 이벤트를 추가로 남깁니다.
 
 - 근거 파일: `app/src/main/java/dev/halcamera/camera/CameraEngine.kt`, `app/src/main/java/dev/halcamera/camera/Camera2Engine.kt`, `app/src/main/java/dev/halcamera/camera/CameraXEngine.kt`, `app/src/main/java/dev/halcamera/MainActivity.kt`, `app/src/main/java/dev/halcamera/ui/LiveControlBar.kt`, `app/src/main/java/dev/halcamera/ui/FocusRing.kt`, `app/src/main/java/dev/halcamera/camera/LiveControls.kt`, `app/src/main/java/dev/halcamera/benchmark/BenchmarkActivity.kt`, `app/src/main/java/dev/halcamera/benchmark/domain/StartCardPresenter.kt`, `app/src/main/java/dev/halcamera/cli/LiveController.kt`, `app/src/main/java/dev/halcamera/telemetry/Telemetry.kt`
 - 근거 수준: 코드 확인
-- 검토 2026-09-29 @ `2347e04` · Codex-code-review
+- 검토 2026-09-29 @ `0bb92aa` · Codex-code-review
 
 </details>
 
@@ -167,7 +167,7 @@ Live의 기본 세션은 프리뷰, YUV_420_888, JPEG 세 스트림으로 구성
 
 - 근거 파일: `app/src/main/java/dev/halcamera/camera/Camera2Engine.kt`, `app/src/main/java/dev/halcamera/camera/LiveStreamSettings.kt`, `app/src/main/java/dev/halcamera/camera/LiveStreamCapabilities.kt`, `app/src/main/java/dev/halcamera/camera/LiveSessionCheck.kt`, `app/src/main/java/dev/halcamera/camera/Camera2StillCapture.kt`, `app/src/main/java/dev/halcamera/camera/Camera2LiveRecorder.kt`, `app/src/main/java/dev/halcamera/camera/BenchmarkRecorder.kt`, `app/src/main/java/dev/halcamera/camera/PreviewBufferRelay.kt`, `app/src/main/java/dev/halcamera/camera/RecordingBufferRelay.kt`, `app/src/main/java/dev/halcamera/camera/StreamConfiguration.kt`, `app/src/main/java/dev/halcamera/camera/StillPair.kt`, `app/src/main/java/dev/halcamera/camera/YuvPacking.kt`, `app/src/main/java/dev/halcamera/camera/StillEncoding.kt`, `app/src/main/java/dev/halcamera/camera/MediaLibrary.kt`, `app/src/main/java/dev/halcamera/camera/LiveControls.kt`, `app/src/main/java/dev/halcamera/camera/LiveControlRequests.kt`, `app/src/main/java/dev/halcamera/camera/TouchMeter.kt`, `app/src/main/java/dev/halcamera/camera/TouchMeterRequests.kt`
 - 근거 수준: 코드 확인
-- 검토 2026-09-29 @ `2347e04` · Codex-code-review
+- 검토 2026-09-29 @ `0bb92aa` · Codex-code-review
 
 </details>
 
@@ -238,7 +238,7 @@ AE 재잠금은 Camera2와 같은 `AeRelock` 규칙을 씁니다. 다만 CameraX
 
 - 근거 파일: `app/src/main/java/dev/halcamera/camera/CameraXEngine.kt`, `app/src/main/java/dev/halcamera/camera/CameraXStillCapture.kt`, `app/src/main/java/dev/halcamera/camera/CameraXLiveRecorder.kt`, `app/src/main/java/dev/halcamera/camera/CameraXControls.kt`, `app/src/main/java/dev/halcamera/camera/StillEncoding.kt`, `app/src/main/java/dev/halcamera/camera/YuvPacking.kt`, `app/src/main/java/dev/halcamera/camera/MediaLibrary.kt`, `app/src/main/java/dev/halcamera/camera/StreamConfiguration.kt`, `app/src/main/java/dev/halcamera/camera/LiveControls.kt`, `app/src/main/java/dev/halcamera/camera/TouchMeter.kt`, `app/build.gradle.kts`
 - 근거 수준: 코드 확인
-- 검토 2026-09-29 @ `2347e04` · Codex-code-review
+- 검토 2026-09-29 @ `0bb92aa` · Codex-code-review
 
 </details>
 
@@ -268,7 +268,7 @@ AE 재잠금은 Camera2와 같은 `AeRelock` 규칙을 씁니다. 다만 CameraX
 
 - 근거 파일: `app/src/main/java/dev/halcamera/camera/Camera2Engine.kt`, `app/src/main/java/dev/halcamera/camera/Camera2StillCapture.kt`, `app/src/main/java/dev/halcamera/camera/Camera2LiveRecorder.kt`, `app/src/main/java/dev/halcamera/camera/TouchMeterRequests.kt`, `app/src/main/java/dev/halcamera/camera/CameraXEngine.kt`, `app/src/main/java/dev/halcamera/camera/CameraXStillCapture.kt`, `app/src/main/java/dev/halcamera/camera/CameraXLiveRecorder.kt`, `app/src/main/java/dev/halcamera/camera/CameraXControls.kt`, `app/src/main/java/dev/halcamera/MainActivity.kt`
 - 근거 수준: 코드 확인
-- 검토 2026-09-29 @ `2347e04` · Codex-code-review
+- 검토 2026-09-29 @ `0bb92aa` · Codex-code-review
 
 </details>
 
@@ -289,11 +289,11 @@ Galaxy S25+에서 확인한 CameraX 관찰 결과와 검증 조건은 [Evidence]
 
 | 항목 | 최신성 | 검토 |
 | --- | --- | --- |
-| 구조 원본 `overall-architecture` | 최신 | 검토 2026-09-29 @ `2347e04` · Codex-code-review |
-| 원고 `contract` | 최신 | 검토 2026-09-29 @ `2347e04` · Codex-code-review |
-| 원고 `camera2` | 최신 | 검토 2026-09-29 @ `2347e04` · Codex-code-review |
-| 원고 `camerax` | 최신 | 검토 2026-09-29 @ `2347e04` · Codex-code-review |
-| 원고 `comparison` | 최신 | 검토 2026-09-29 @ `2347e04` · Codex-code-review |
+| 구조 원본 `overall-architecture` | 최신 | 검토 2026-09-29 @ `0bb92aa` · Codex-code-review |
+| 원고 `contract` | 최신 | 검토 2026-09-29 @ `0bb92aa` · Codex-code-review |
+| 원고 `camera2` | 최신 | 검토 2026-09-29 @ `0bb92aa` · Codex-code-review |
+| 원고 `camerax` | 최신 | 검토 2026-09-29 @ `0bb92aa` · Codex-code-review |
+| 원고 `comparison` | 최신 | 검토 2026-09-29 @ `0bb92aa` · Codex-code-review |
 
 <!-- omm:end id=status -->
 
